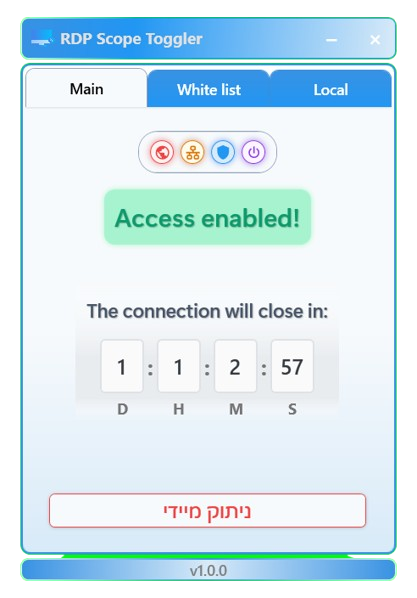
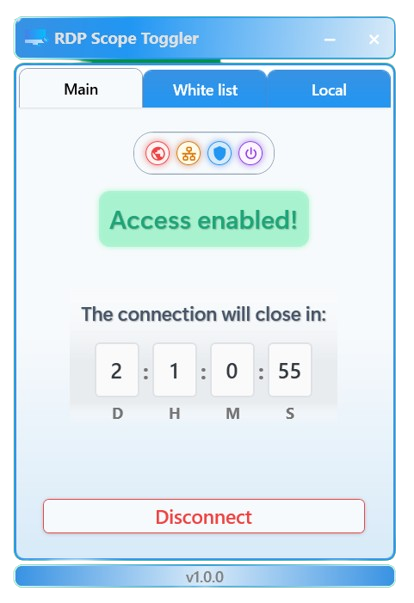
small fix

diff --git a/Resources/Language/StringResources.en.xaml b/Resources/Language/StringResources.en.xaml
@@ -44,7 +44,7 @@
     <sys:String x:Key="And_translator" xmlns:sys="clr-namespace:System;assembly=mscorlib">And</sys:String>
 
     <sys:String x:Key="AccessEnabled_translator" xmlns:sys="clr-namespace:System;assembly=mscorlib">Access enabled!</sys:String>
-    <sys:String x:Key="Disconnect_translator" xmlns:sys="clr-namespace:System;assembly=mscorlib">ניתוק מיידי</sys:String>
+    <sys:String x:Key="Disconnect_translator" xmlns:sys="clr-namespace:System;assembly=mscorlib">Disconnect</sys:String>
 
 
 </ResourceDictionary>
